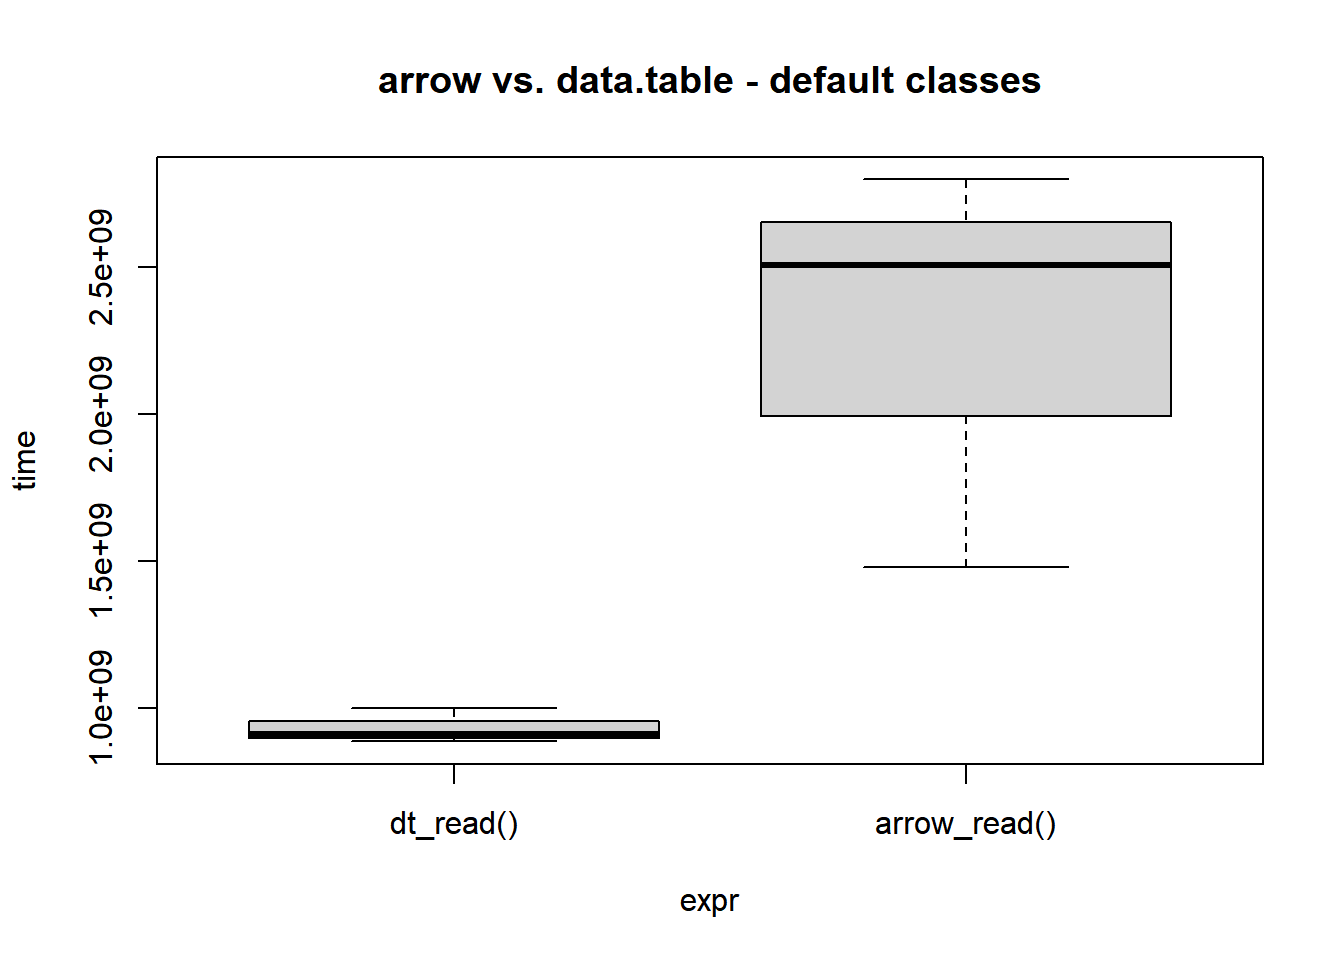
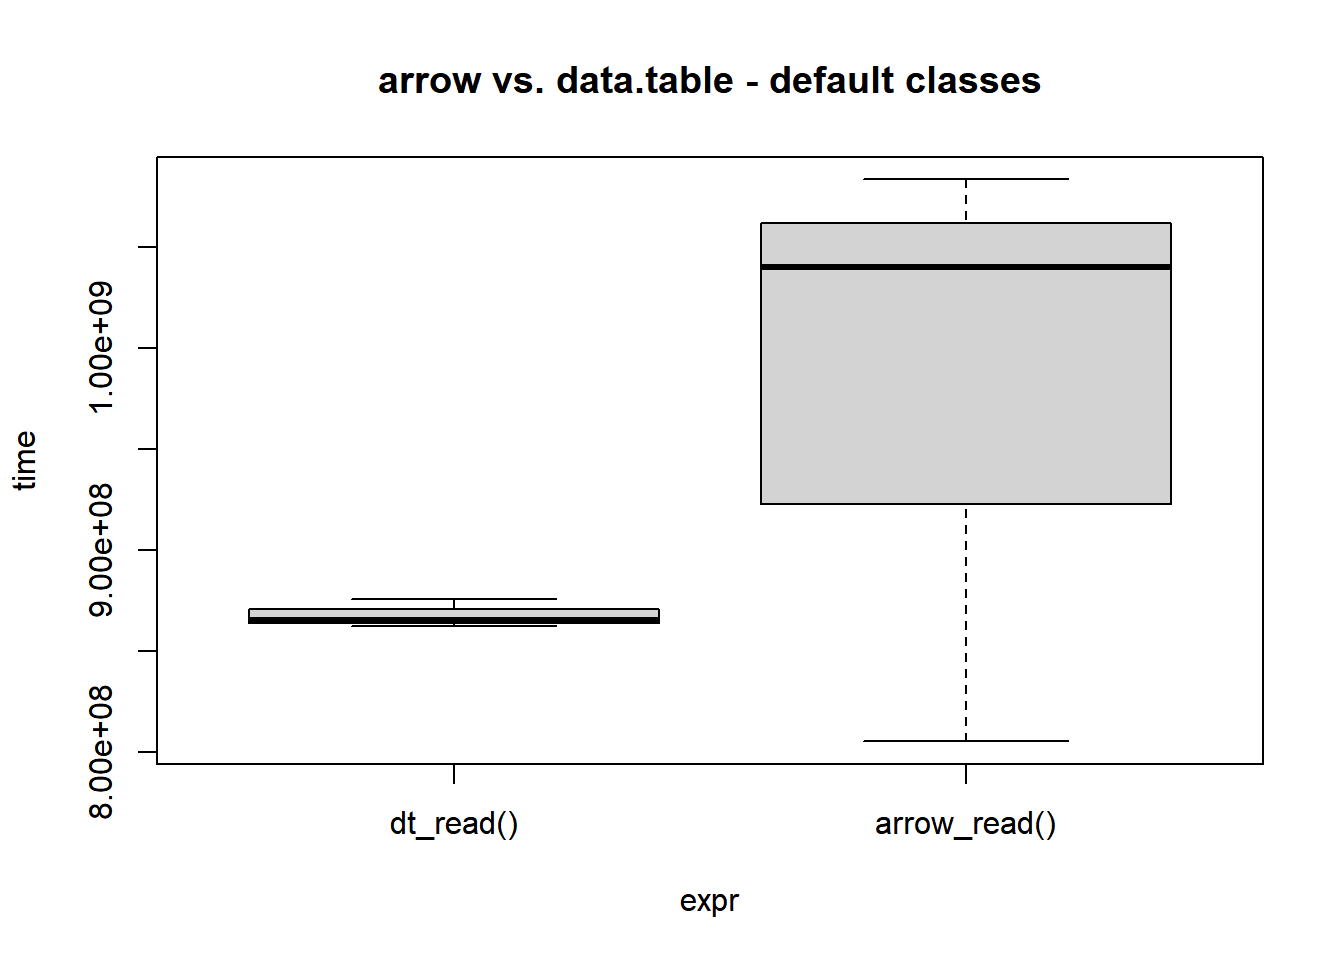
fixed plots

diff --git a/content/post/2021-02-17-reading-data-fread-vs-feather/index.en.html b/content/post/2021-02-17-reading-data-fread-vs-feather/index.en.html
@@ -62,9 +62,9 @@ dt_read    &lt;- function() {
                                      times = 3, control = list(order = &quot;block&quot;))</code></pre>
 <pre class="r"><code>print(mb)</code></pre>
 <pre><code>## Unit: milliseconds
-##          expr       min        lq      mean    median        uq      max neval
-##     dt_read()  888.8003  900.9147  934.8187  913.0291  957.8279 1002.627     3
-##  arrow_read() 1480.2873 1993.2762 2261.2065 2506.2651 2651.6662 2797.067     3</code></pre>
+##          expr      min       lq     mean    median        uq       max neval
+##     dt_read() 862.1386 863.7842 867.7227  865.4299  870.5147  875.5995     3
+##  arrow_read() 805.2859 922.7686 976.3603 1040.2512 1061.8974 1083.5437     3</code></pre>
 <p><img src="{{< blogdown/postref >}}index.en_files/figure-html/default_classes_plot-1.png" width="672" /></p>
 <p>So, <code>arrow::read_delim_arrow</code> is super fast here, comparable do <code>data.table::fread</code>. We take a look at the objects that are being created.</p>
 <pre class="r"><code>da &lt;- arrow_read()
@@ -101,17 +101,17 @@ dt_read    &lt;- function(col_classes = c(&quot;POSIXct&quot;, &quot;integer&quo
 <pre class="r"><code>a_c &lt;- c(&quot;cii&quot;)
 d_c &lt;- c(&quot;character&quot;, &quot;integer&quot;, &quot;integer&quot;)
 
-mb &lt;- microbenchmark::microbenchmark(arrow_read(col_classes = a_c), 
-                                     dt_read(col_classes = d_c), 
+mb &lt;- microbenchmark::microbenchmark(dt_read(col_classes = d_c),
+                                     arrow_read(col_classes = a_c),
                                      times = 3, control = list(order = &quot;block&quot;))</code></pre>
 <p>The results of the benchmark is shown below:</p>
 <pre><code>## Unit: seconds
-##                           expr      min       lq      mean    median       uq
-##  arrow_read(col_classes = a_c) 4.699052 8.700987 12.638073 12.702922 16.60758
-##     dt_read(col_classes = d_c) 2.545700 3.061817  3.584553  3.577935  4.10398
+##                           expr      min       lq     mean   median        uq
+##     dt_read(col_classes = d_c) 2.849376 6.334458 8.475382 9.819539 11.288384
+##  arrow_read(col_classes = a_c) 4.176872 4.260962 4.440585 4.345051  4.572441
 ##        max neval
-##  20.512243     3
-##   4.630025     3</code></pre>
+##  12.757229     3
+##   4.799831     3</code></pre>
 <p><img src="{{< blogdown/postref >}}index.en_files/figure-html/character_column_plot-1.png" width="672" /></p>
 </div>
 <div id="threads" class="section level2">
@@ -134,8 +134,8 @@ for(i in 1L:4L) {
 a_c &lt;- c(&quot;cii&quot;)
 d_c &lt;- c(&quot;character&quot;, &quot;integer&quot;, &quot;integer&quot;)
 
-mb[[i]] &lt;- summary(microbenchmark::microbenchmark(arrow_read(col_classes = a_c), 
-                                     dt_read(col_classes = d_c), 
+mb[[i]] &lt;- summary(microbenchmark::microbenchmark(dt_read(col_classes = d_c),
+                                                  arrow_read(col_classes = a_c),
                                      times = 3, control = list(order = &quot;block&quot;)))
 
 }
@@ -143,23 +143,23 @@ mb[[i]] &lt;- summary(microbenchmark::microbenchmark(arrow_read(col_classes = a_
 mb &lt;- rbindlist(mb, idcol = &quot;threads&quot;)</code></pre>
 <pre class="r"><code>print(mb)</code></pre>
 <pre><code>##    threads                          expr      min       lq     mean   median
-## 1:       1 arrow_read(col_classes = a_c) 5.428651 5.626497 6.997638 5.824344
-## 2:       1    dt_read(col_classes = d_c) 4.964640 5.072506 6.677696 5.180372
-## 3:       2 arrow_read(col_classes = a_c) 4.191114 4.856675 7.376874 5.522235
-## 4:       2    dt_read(col_classes = d_c) 3.442416 4.050537 4.406088 4.658658
-## 5:       3 arrow_read(col_classes = a_c) 3.802427 4.103590 4.213372 4.404753
-## 6:       3    dt_read(col_classes = d_c) 3.240687 3.336594 4.519840 3.432501
-## 7:       4 arrow_read(col_classes = a_c) 2.910719 2.933908 5.316196 2.957097
-## 8:       4    dt_read(col_classes = d_c) 2.460618 2.481157 2.862984 2.501697
-##          uq       max neval
-## 1: 7.782131  9.739919     3
-## 2: 7.534224  9.888076     3
-## 3: 8.969754 12.417272     3
-## 4: 4.887925  5.117191     3
-## 5: 4.418845  4.432937     3
-## 6: 5.159417  6.886333     3
-## 7: 6.518935 10.080773     3
-## 8: 3.064166  3.626636     3</code></pre>
+## 1:       1    dt_read(col_classes = d_c) 3.540304 3.692165 4.439417 3.844026
+## 2:       1 arrow_read(col_classes = a_c) 4.198402 4.738828 5.937146 5.279254
+## 3:       2    dt_read(col_classes = d_c) 2.824914 2.845855 4.406937 2.866795
+## 4:       2 arrow_read(col_classes = a_c) 3.464902 3.890802 4.175166 4.316702
+## 5:       3    dt_read(col_classes = d_c) 2.832681 2.854359 2.950912 2.876038
+## 6:       3 arrow_read(col_classes = a_c) 3.479970 3.493036 4.243320 3.506102
+## 7:       4    dt_read(col_classes = d_c) 2.386013 2.403941 4.573434 2.421869
+## 8:       4 arrow_read(col_classes = a_c) 2.816352 2.825118 3.145613 2.833883
+##          uq      max neval
+## 1: 4.888974 5.933922     3
+## 2: 6.806517 8.333781     3
+## 3: 5.197948 7.529101     3
+## 4: 4.530299 4.743895     3
+## 5: 3.010027 3.144016     3
+## 6: 4.624995 5.743888     3
+## 7: 5.667145 8.912422     3
+## 8: 3.310244 3.786605     3</code></pre>
 </div>
 <div id="wrapping-up" class="section level2">
 <h2>Wrapping up</h2>
